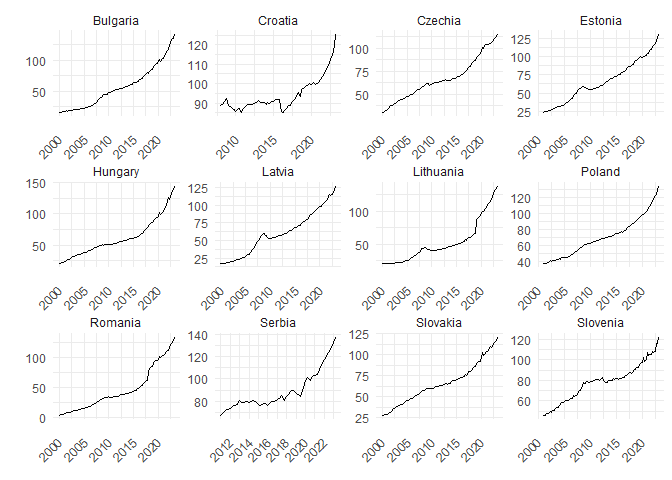
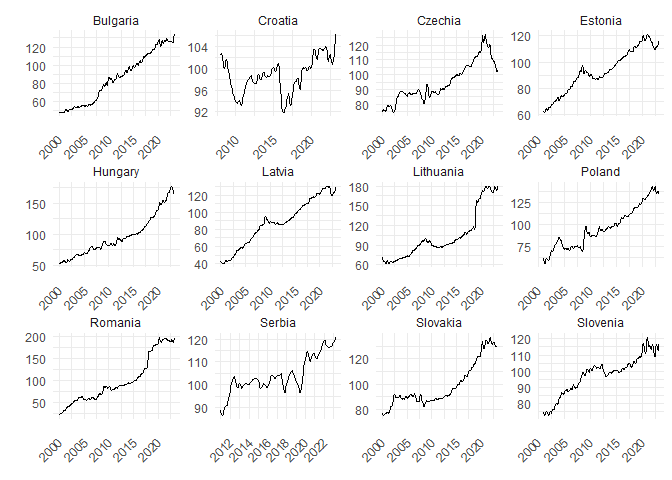
Data update

diff --git a/data/README.md b/data/README.md
@@ -54,8 +54,10 @@ countries](README_files/figure-gfm/unnamed-chunk-6-1.png)
 
 # Wage rates
 
-Quarterly wage rate indices, seasonally and calendar adjusted, measured
-as wage growth of sectors B-S, retrieved from Eurostat.
+Quarterly real wage rate indices, seasonally and calendar adjusted,
+measured as wage growth of sectors B-S, adjusted for inflation using GDP
+deflator, retrieved from Eurostat. The series are interpolated from
+quarterly to monthly frequency using spline interpolation.
 
 ![Wage rates in the CEE
 countries](README_files/figure-gfm/unnamed-chunk-7-1.png)
